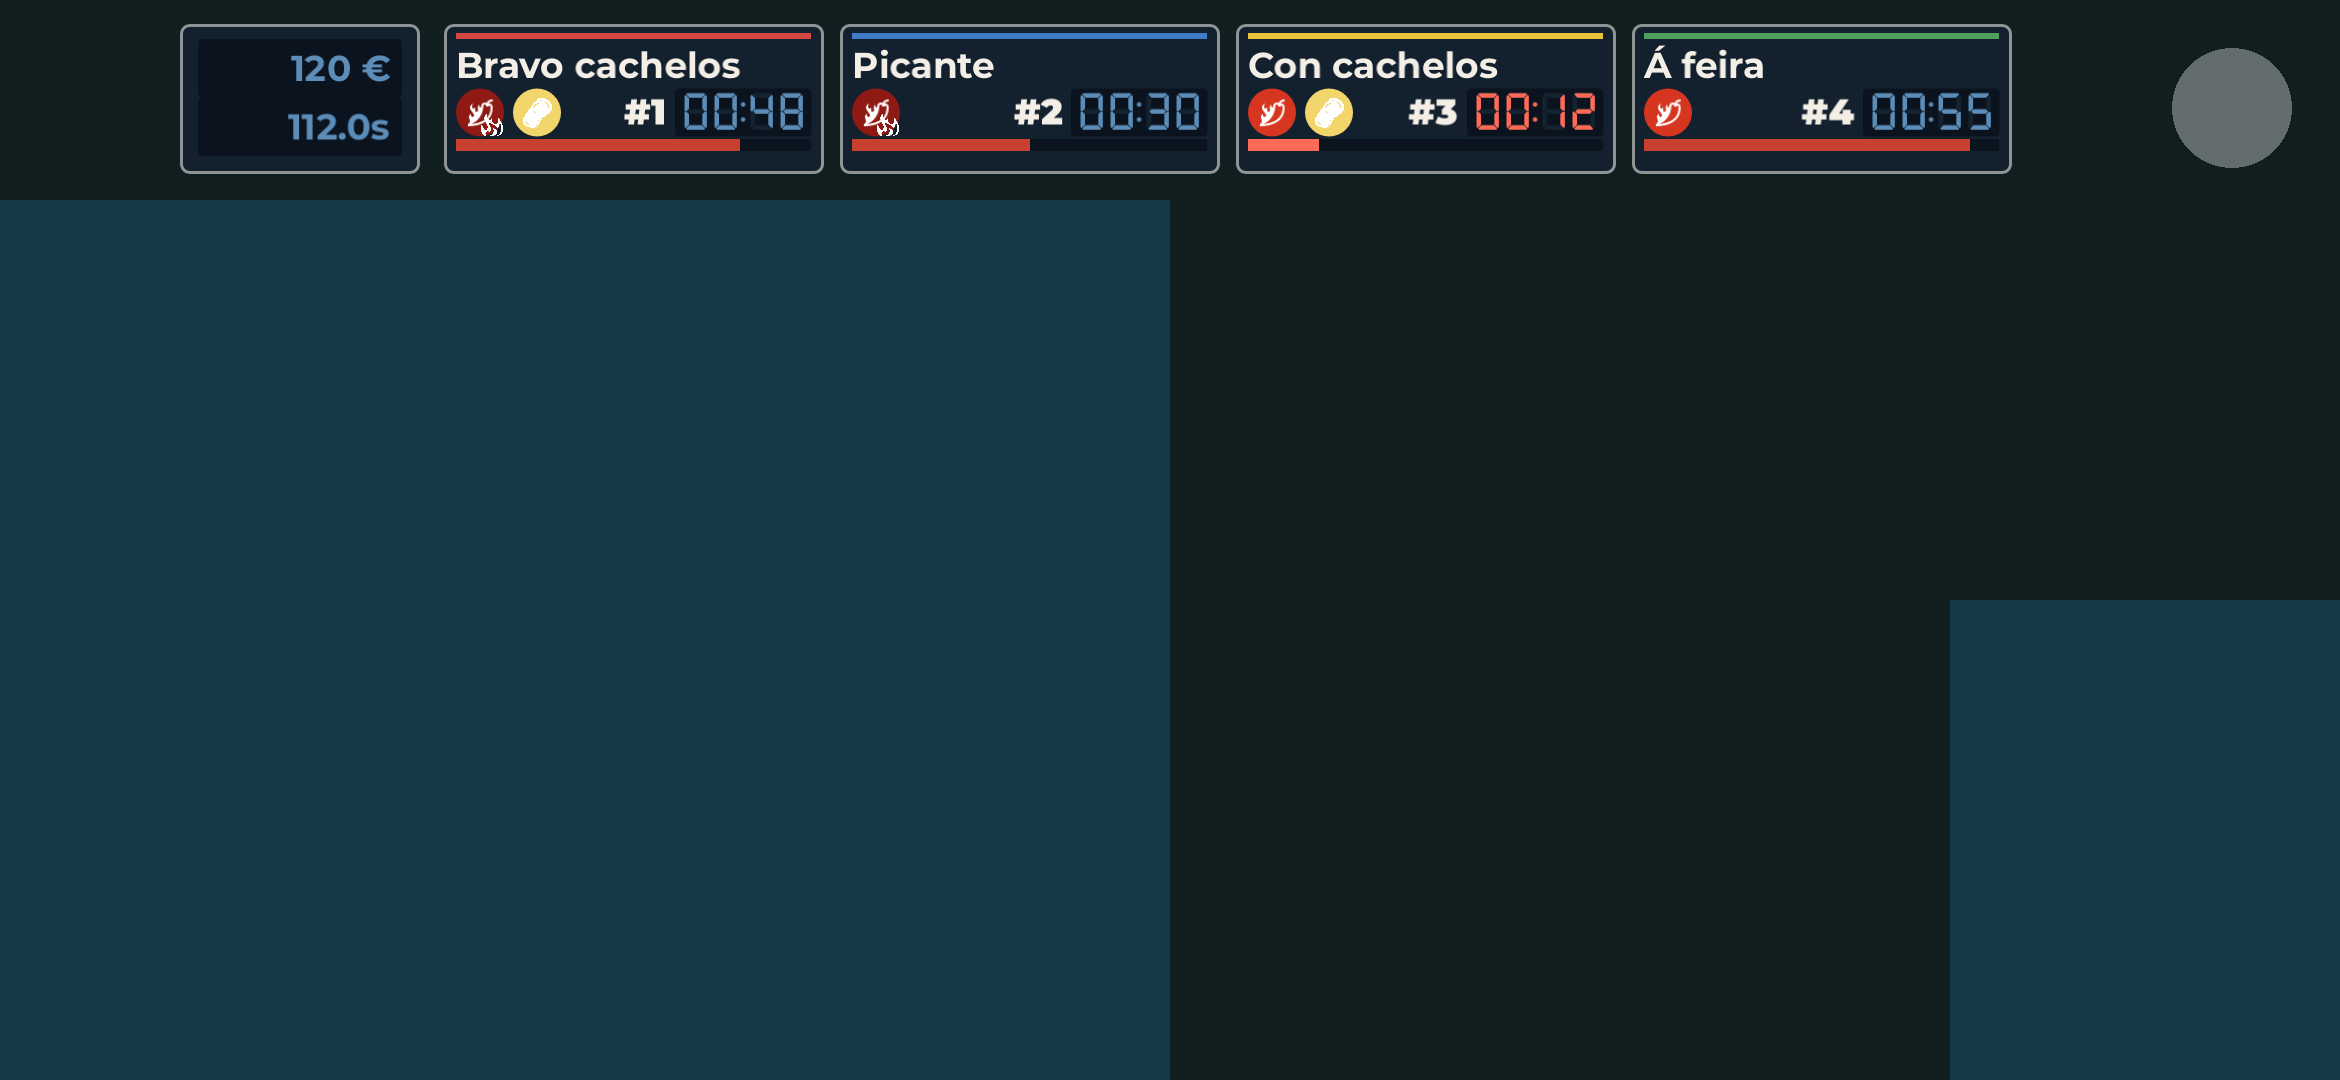
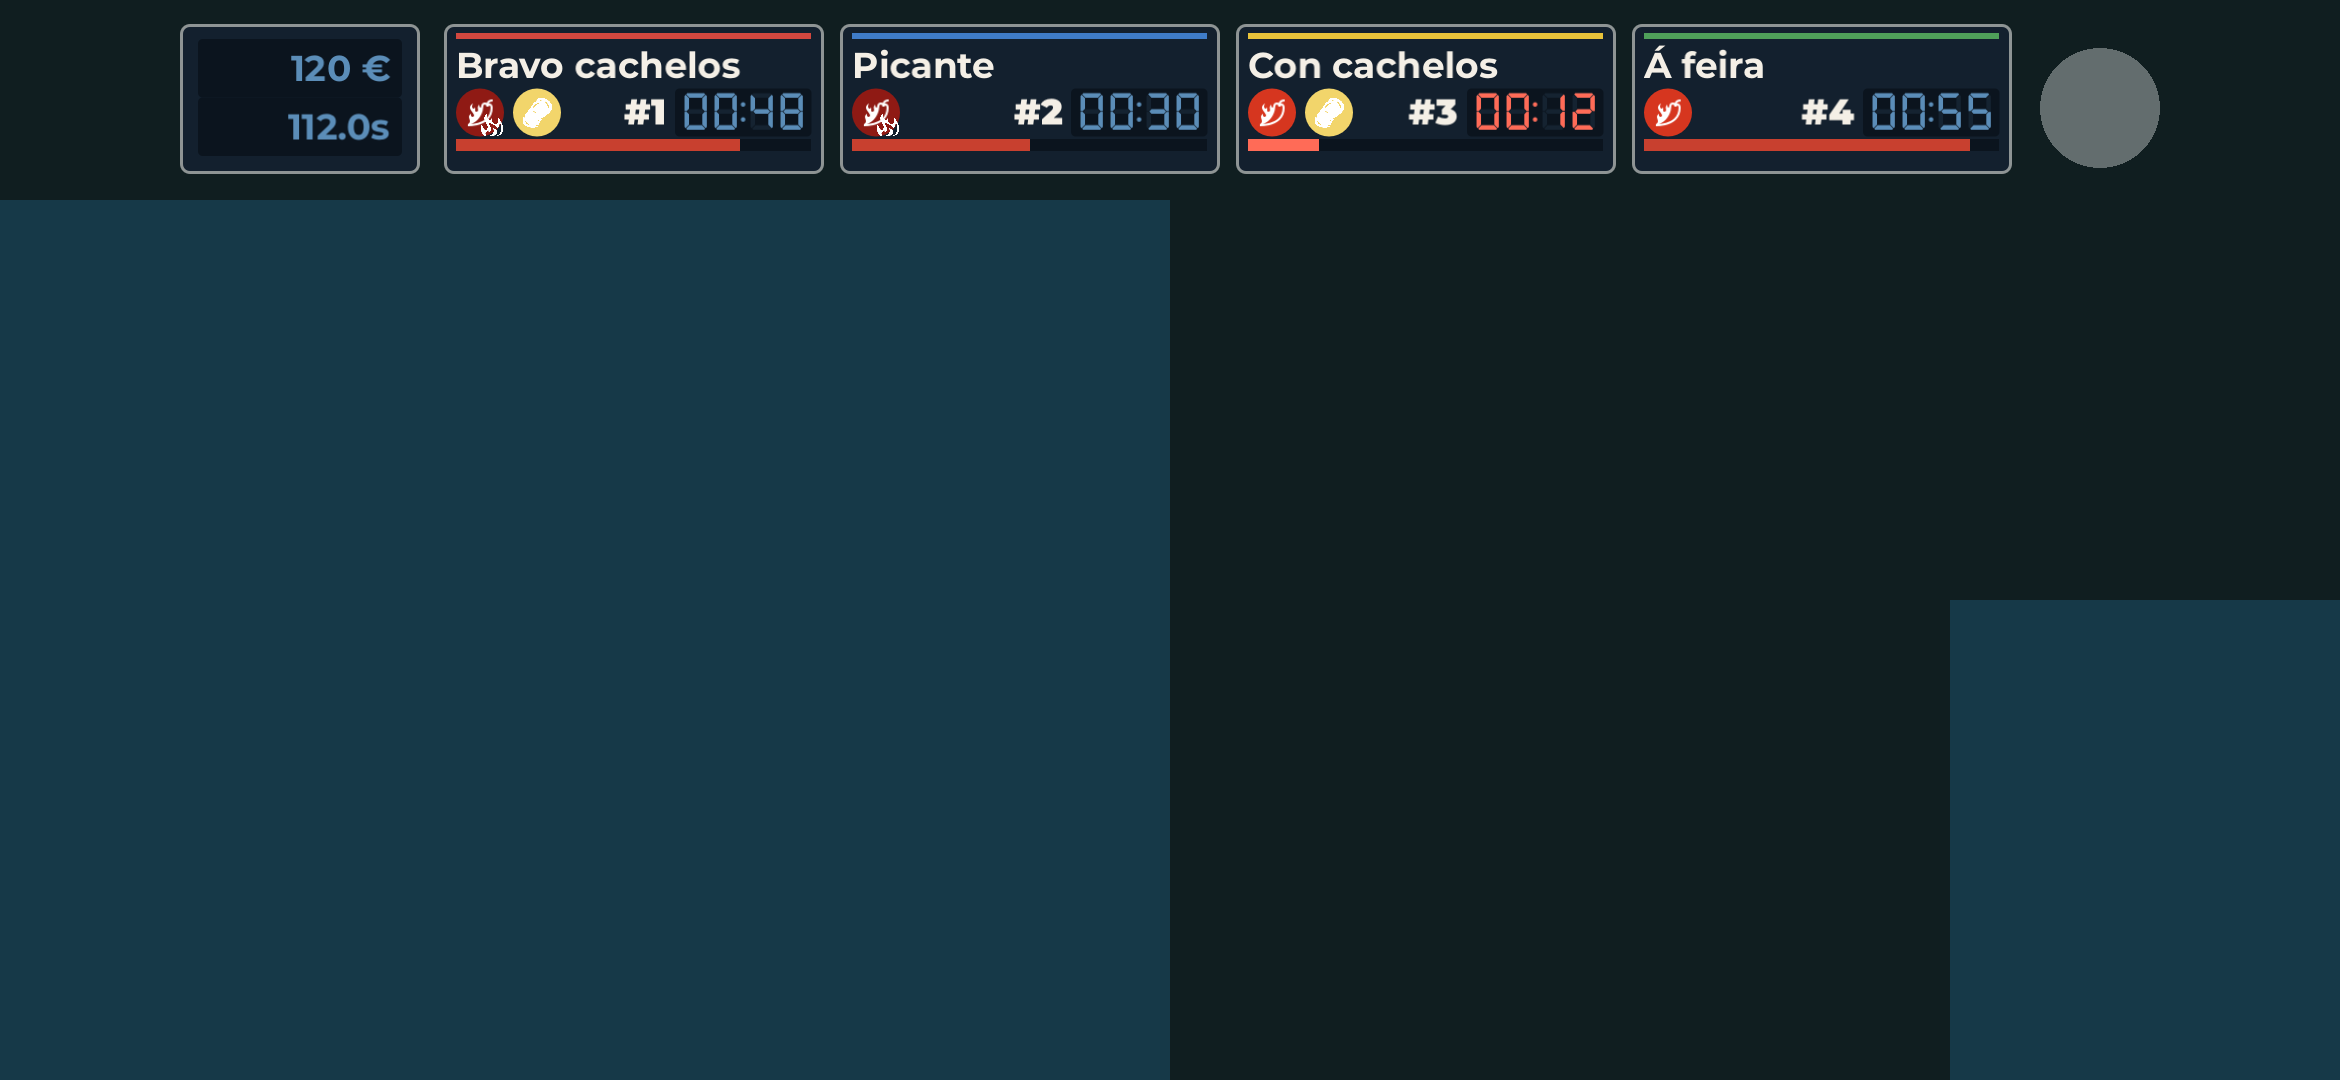
feat(PUL-129): corrige la revisión (medidas de touch_config, overlay del sandbox, icono por aliño, _game_state inyectado)

Changed region(s): [[0.8735, 0.0306, 0.9983, 0.1528]]

diff --git a/docs/backlog/PUL-129-hud-y-tickets-para-movil.md b/docs/backlog/PUL-129-hud-y-tickets-para-movil.md
@@ -47,4 +47,4 @@ ADR-005 E3–E4 en HUD y tickets: `SafeAreaMargin`, banda superior en `MOBILE` c
 ## Evidence
 - Tests: `test_touch_hud_layout.gd` (13), `test_hud.gd` (17), `test_order_tickets.gd` (25); `tools/verify.sh` en verde.
 - Capturas en `docs/evidence/PUL-129/`: `hud_touch_2340x1080.png` (safe area simulada, 4 tickets, zonas azules = stick y botones, círculo = pausa), `hud_touch_1920x1080.png`, `hud_touch_1600x720.png`, `hud_desktop_1280x720.png`, `hud_desktop_1920x1080.png`. Generadas con un script `SceneTree` sobre `hud_sandbox.tscn` (`--resolution WxH -s capture.gd -- png [--safe] [--touch]`).
-- Desviaciones: `%BoxesPerMinute` sigue como `Label` oculto porque `test_parity_smoke.gd` (fuera de owns) lo lee; PUL-131 debe retirarlo con ese test. En MOBILE se ocultan `ActiveCharacter` y `DeviceNotice` del HUD (no caben en 2 líneas). El separador de tickets usa `floori` (la maquetación del `HBox` redondea y daba 17,5 px). Nada de «fase» en el HUD: no existe como dato en la UI.
+- Desviaciones (lo que queda en código): `TOP_PX` (24) y `BLOCK_GAP_PX` (24) son constantes de `TouchHudLayout` sin dato propio; el margen de 48 y la pausa de 120 px salen de `touch_config.tres`. `order_ticket.gd` crea en código los stylebox compactos del ticket móvil (márgenes 6/8, pozo del reloj a 0/4) y fija la franja a 4 unidades y la separación a 2. En MOBILE `margin_bottom` de las raíces es 0. `%BoxesPerMinute` sigue como `Label` oculto porque `test_parity_smoke.gd` (fuera de owns) lo lee; PUL-131 debe retirarlo con ese test. En MOBILE se ocultan `ActiveCharacter` y `DeviceNotice` del HUD (no caben en 2 líneas). El separador de tickets usa `floori` (la maquetación del `HBox` redondea y daba 17,5 px). Nada de «fase» en el HUD: no existe como dato en la UI.
